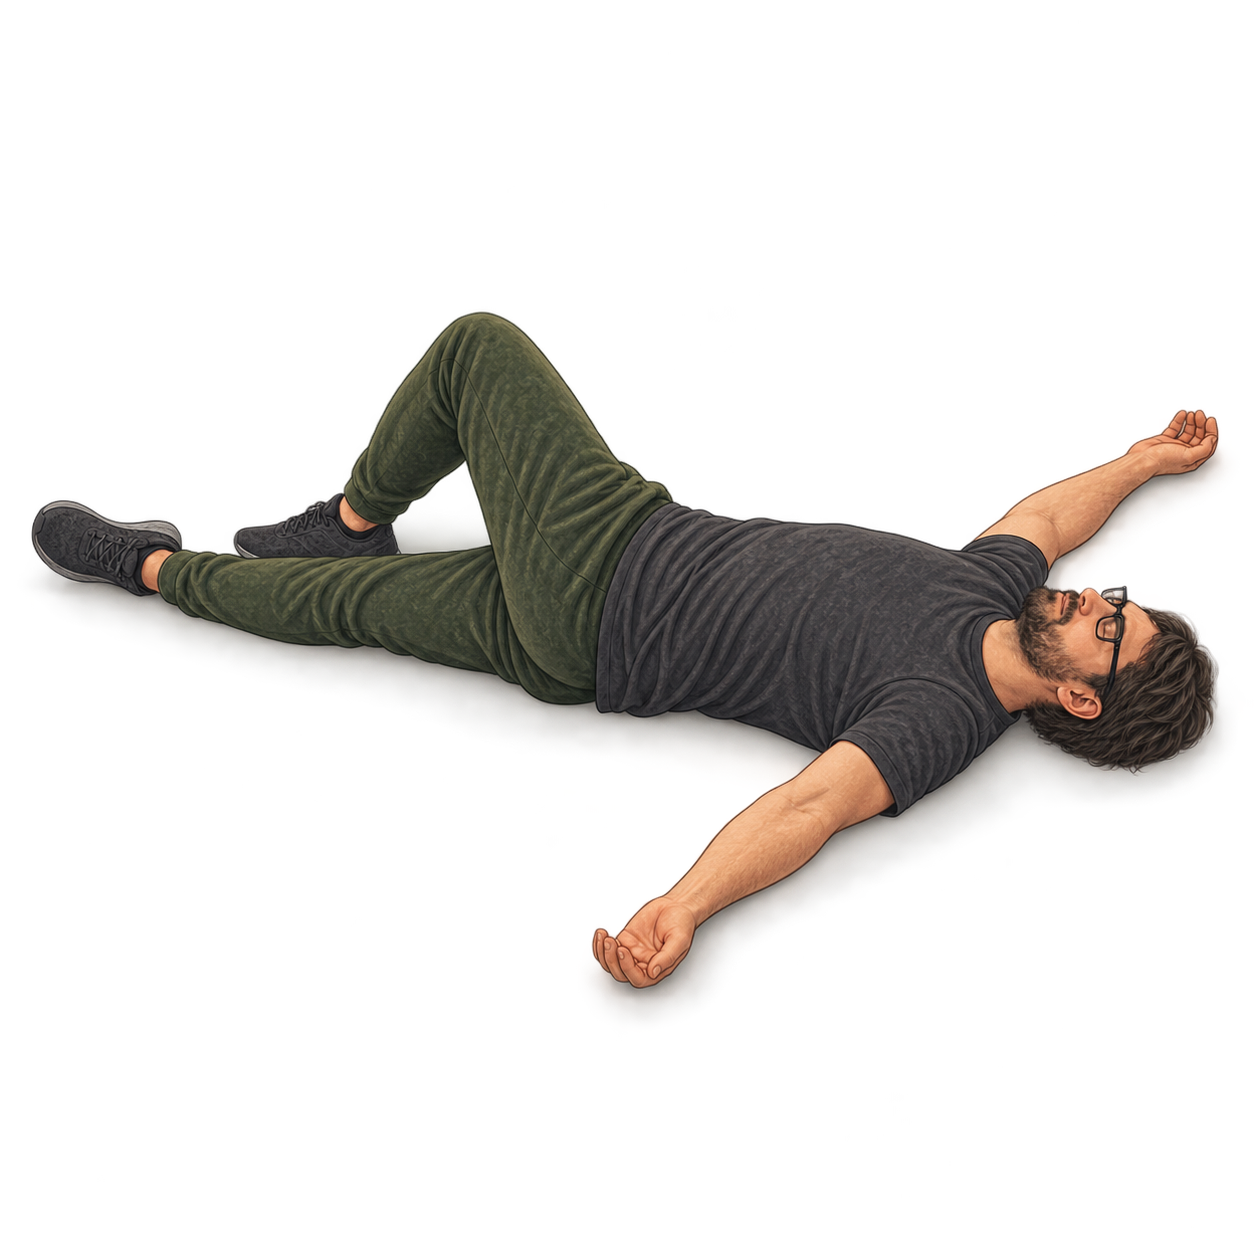
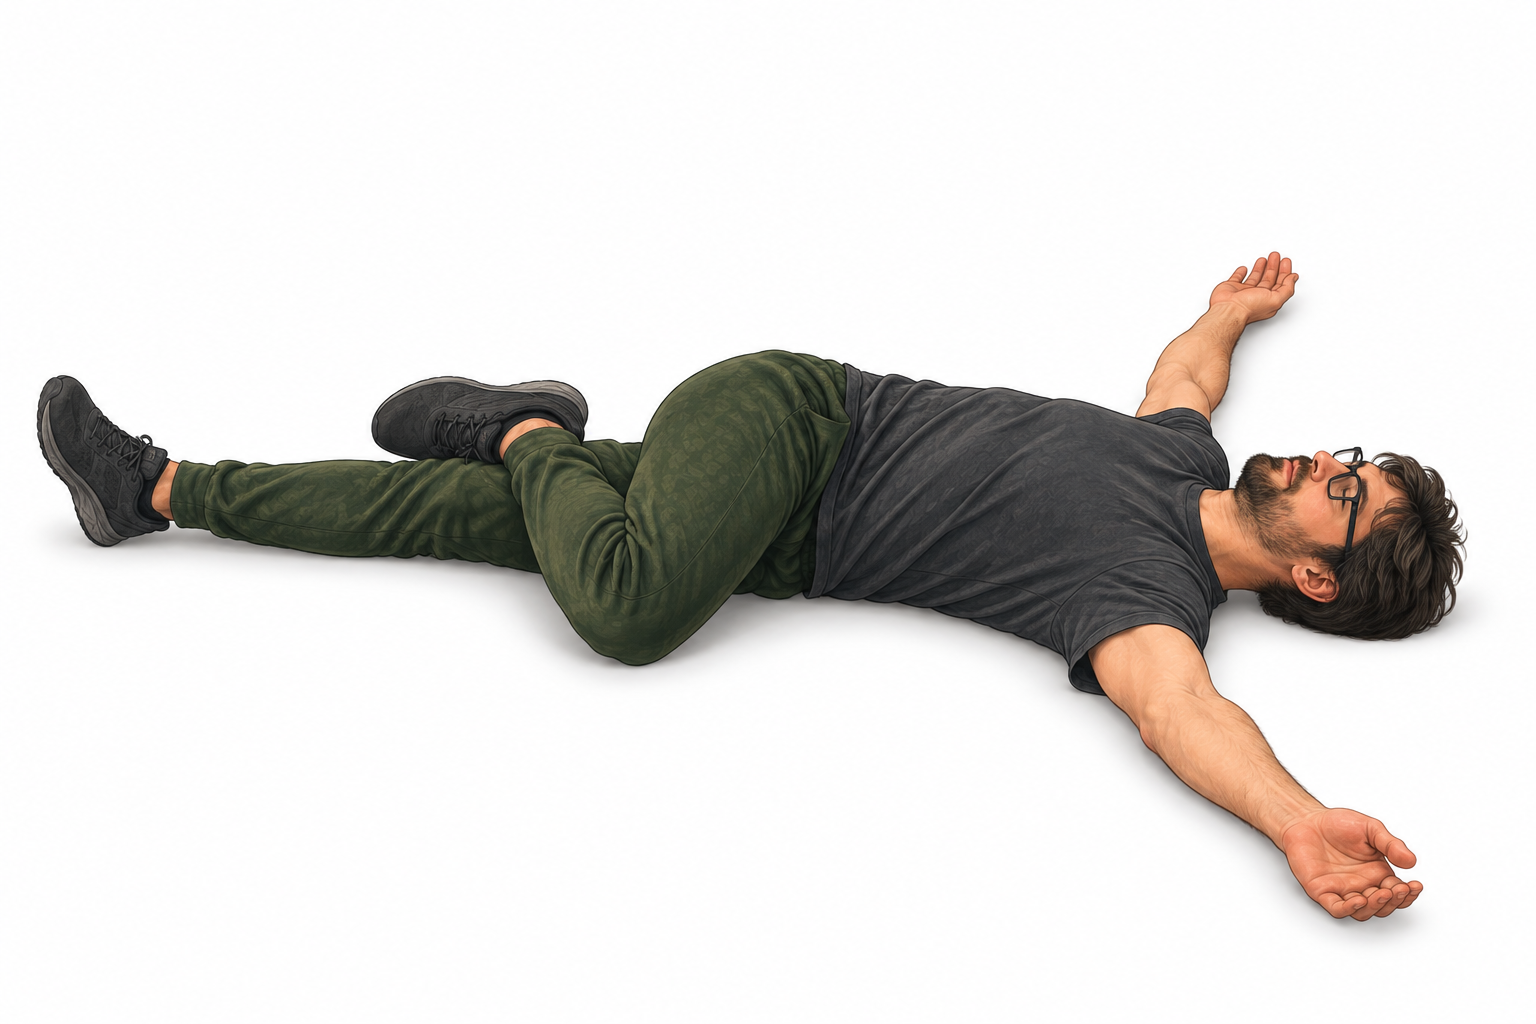
Fix stretch artwork backgrounds and supine twist

Changed region(s): [[0.0, 0.25, 0.9952, 0.9375]]

diff --git a/RELEASE_NOTES.md b/RELEASE_NOTES.md
@@ -1,3 +1,11 @@
+# Zen Chad 2.18 — Stretch artwork consistency fix (2026-09-27)
+
+- Made all five refreshed stretch illustrations opaque on the same white background.
+- Redrew Supine Twist with the bent knee clearly crossing the body and the shoulders grounded, so it reads distinctly from Figure Four.
+- Version code 29; version name 2.18; shareable debug APK: `ZenChad-2.18-Stretch-Artwork-Fix.apk`.
+- Verified TypeScript/Vite build, Capacitor sync, JDK 21 Gradle assembly, package/version metadata, v1/v2 APK signatures, opaque backgrounds, and all five packaged image hashes. No connected-device check was performed.
[1 lines of base64/hex data omitted]
+
 # Zen Chad 2.17 — Mark stretch illustration refresh (2026-09-27)
 
 - Replaced the in-app illustrations for Kneeling Lunge, Half-Kneeling Quad Stretch, Seated Hamstring Stretch, Figure Four Stretch, and Supine Twist with new Mark-matched artwork based on the supplied pose references.
